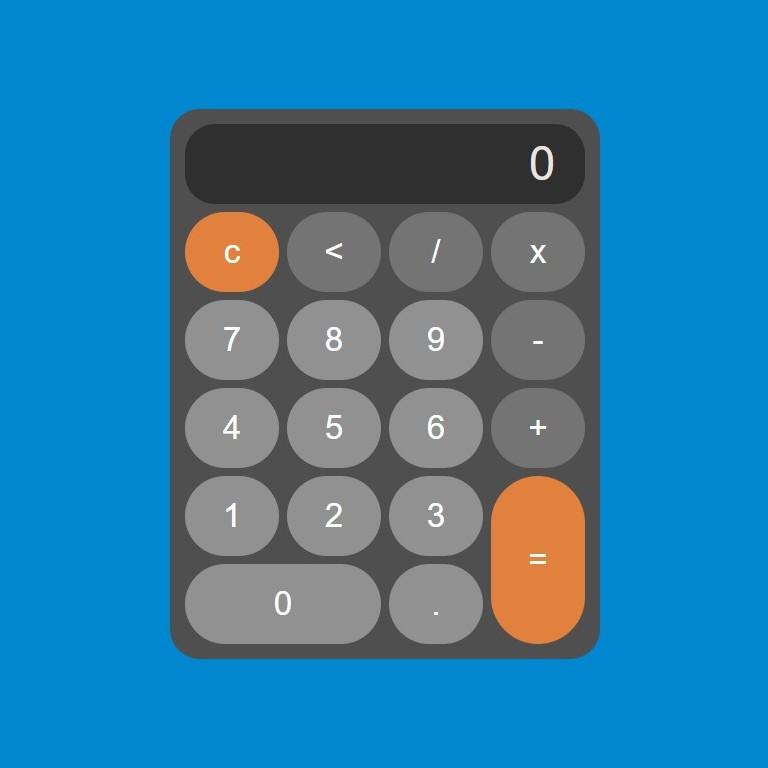
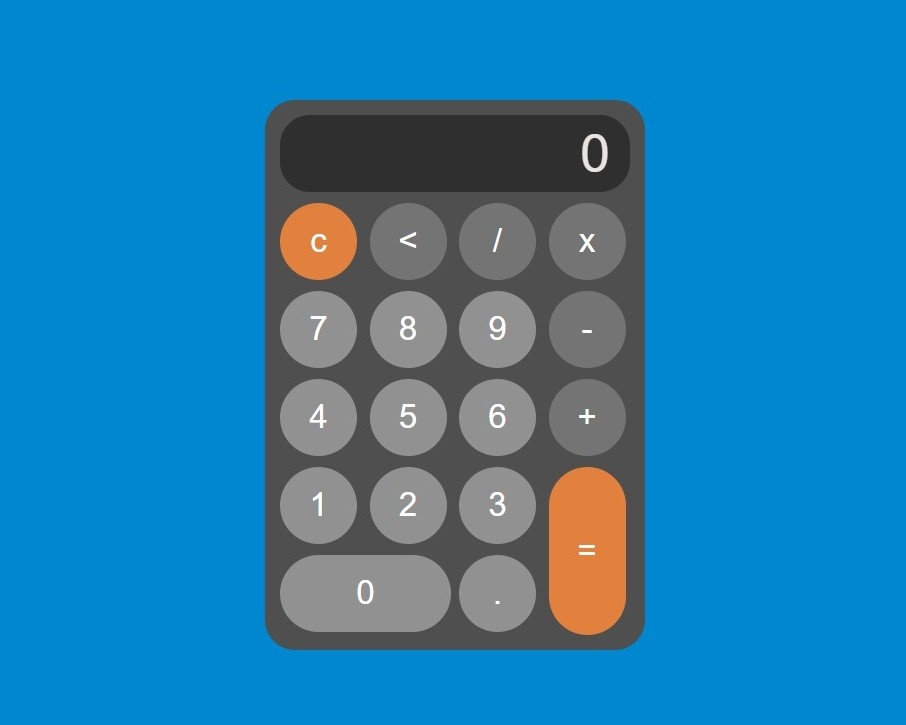
Alterações no estilo dos botões e largura da calculadora.

Changed region(s): [[0.2188, 0.1214, 0.7812, 0.9103]]

diff --git a/Style/Style.css b/Style/Style.css
@@ -7,7 +7,7 @@
     gap: 8px;
     /*Espaçamento dos botões.*/
     background: #4F4F4F;
-    width: 400px;
+    width: 350px;
     height: 520px;
     border-radius: 30px;
     /*Arredondar a borda*/
@@ -31,6 +31,8 @@ body {
     color: #ffffff;
     cursor: pointer;
     font: normal 25pt Arial;
+    width: 77px;
+    height: 77px;
     border: none;
     /*Sem bordas.*/
     border-radius: 50px;
@@ -41,24 +43,27 @@ body {
     grid-column: span 4;
     /*Tela ocupa 4 colunas.*/
     text-align: right;
-    padding-right: 30px;
+    padding-right: 20px;
     background-color: #2F2F2F;
     color: #E8E4E2;
-    font: normal 35pt Arial;
+    font: normal 40pt Arial;
+    width: 100%;
     border-radius: 30px;
 }
 
 #botaoZero {
     /* botão zero ocupa duas colunas na horizontal */
     grid-column: span 2;
+    width: 100%;
 }
 
 #botaoResultado {
     /* botão resultado ocupa duas colunas na vertical */
     grid-row: span 2;
+    height: 100%;
+    background-color: #E1813D;
 }
 
-/* alterando cor dos botões */
 .operando {
     background-color: #747474;
 }
@@ -69,8 +74,4 @@ body {
 
 #botaoBack {
     background-color: #747474;
-}
-
-#botaoResultado {
-    background-color: #E1813D;
 }
